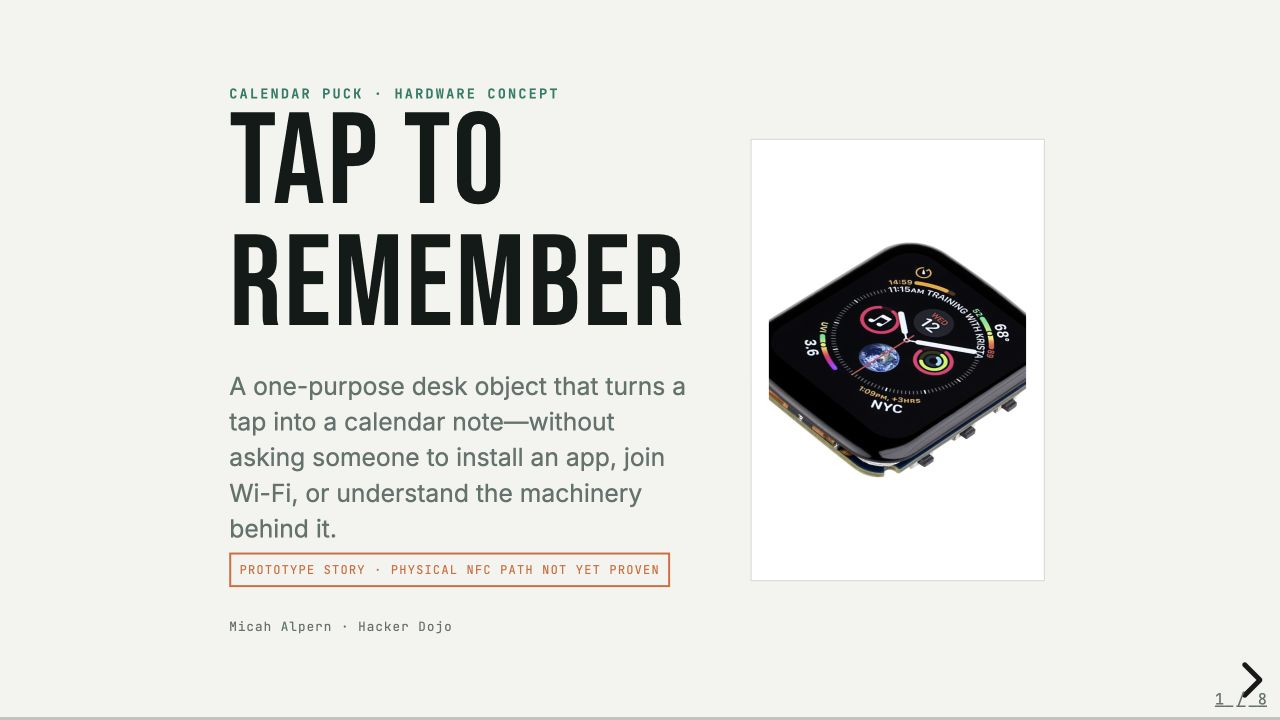
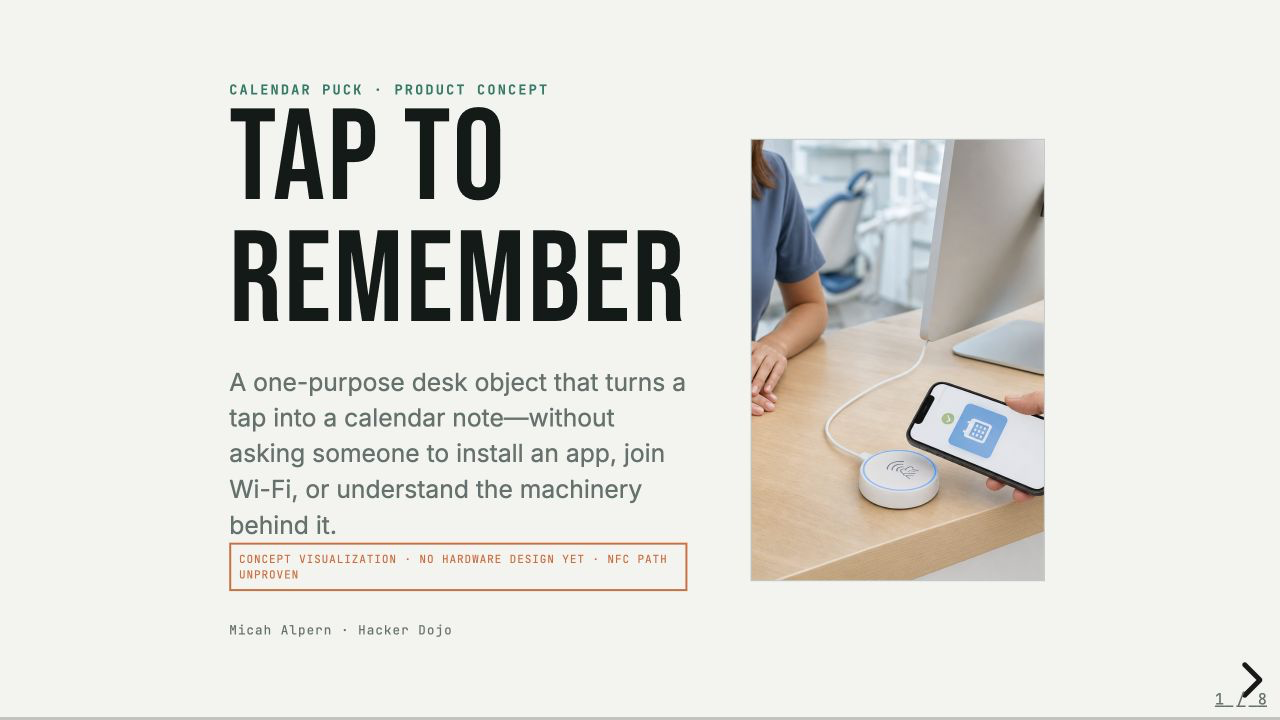
Replace Calendar Puck watch imagery

diff --git a/calendar-puck/deck.html b/calendar-puck/deck.html
@@ -6,12 +6,12 @@
   <link rel="preconnect" href="https://fonts.googleapis.com"><link rel="preconnect" href="https://fonts.gstatic.com" crossorigin>
   <link href="https://fonts.googleapis.com/css2?family=Bebas+Neue&family=Inter:wght@400;600;700;800&family=JetBrains+Mono:wght@400;700&display=swap" rel="stylesheet">
   <link rel="stylesheet" href="https://cdn.jsdelivr.net/npm/reveal.js@5.1.0/dist/reset.css"><link rel="stylesheet" href="https://cdn.jsdelivr.net/npm/reveal.js@5.1.0/dist/reveal.css"><link rel="stylesheet" href="../shared/deck.css">
-  <style>:root{--bg:#f2f4ef;--panel:#ffffff;--panel-2:#e7ece7;--fg:#111a18;--muted:#62716d;--accent:#0a7c66;--accent-2:#d96834;--rule:rgba(17,26,24,.18)}body,.reveal-viewport{background:var(--bg)!important}.device-photo{background:#fff}.device-photo img{object-fit:contain;padding:6%}.concept-note{border:2px solid var(--accent-2);color:var(--accent-2);font-family:'JetBrains Mono',monospace;font-size:.38em!important;letter-spacing:.1em;padding:.55em .7em;text-transform:uppercase;display:inline-block}</style>
+  <style>:root{--bg:#f2f4ef;--panel:#ffffff;--panel-2:#e7ece7;--fg:#111a18;--muted:#62716d;--accent:#0a7c66;--accent-2:#d96834;--rule:rgba(17,26,24,.18)}body,.reveal-viewport{background:var(--bg)!important}.concept-art{background:#dfe8e6}.concept-art img{object-fit:cover;object-position:52% center}.concept-note{border:2px solid var(--accent-2);color:var(--accent-2);font-family:'JetBrains Mono',monospace;font-size:.35em!important;letter-spacing:.08em;padding:.55em .7em;text-transform:uppercase;display:inline-block}.physical-ledger h2{font-size:2.2em;max-width:20ch;margin-bottom:.35em}.physical-ledger .evidence{min-height:0;padding:.85em}.physical-ledger .evidence h3{font-size:.88em}.physical-ledger .evidence p{font-size:.5em;line-height:1.35}</style>
 </head>
 <body><div class="reveal"><div class="slides">
   <section class="title-slide"><div class="title-grid">
-    <div class="title-copy"><p class="eyebrow">Calendar Puck · hardware concept</p><h1>Tap to Remember</h1><p class="dek">A one-purpose desk object that turns a tap into a calendar note—without asking someone to install an app, join Wi-Fi, or understand the machinery behind it.</p><p class="concept-note">Prototype story · physical NFC path not yet proven</p><p class="byline">Micah Alpern · Hacker Dojo</p></div>
-    <div class="hero-frame device-photo"><img src="assets/esp32-s3-touch-lcd-1.69-crop.jpg" alt="Official product image of the ESP32-S3 Touch LCD 1.69 development board"></div>
+    <div class="title-copy"><p class="eyebrow">Calendar Puck · product concept</p><h1>Tap to Remember</h1><p class="dek">A one-purpose desk object that turns a tap into a calendar note—without asking someone to install an app, join Wi-Fi, or understand the machinery behind it.</p><p class="concept-note">Concept visualization · no hardware design yet · NFC path unproven</p><p class="byline">Micah Alpern · Hacker Dojo</p></div>
+    <div class="hero-frame concept-art"><img src="assets/calendar-puck-dentist-office-concept.png" alt="Project concept illustration showing an iPhone tapping a small round USB puck on a dentist-office desk; no hardware has been built"></div>
   </div></section>
 
   <section class="statement"><p class="eyebrow">The job</p><h2>“Put this on my calendar” should not become a setup flow.</h2><p>The experience is for a shared room, not a personal gadget. The object should be legible, local, and calm enough that anyone can use it once.</p></section>
@@ -22,7 +22,7 @@
     <article class="evidence"><p class="kicker">No mystery</p><h3>Show the state</h3><p>The display must make ready, transfer, success, and failure unmistakable.</p></article>
   </div></section>
 
-  <section class="split"><div><p class="eyebrow">Selected hardware</p><h2>A screen, touch, NFC ambitions, and strict constraints.</h2><p>The development board provides a 1.69-inch touch display and ESP32-S3 platform. It is a real component—not evidence that the final offline handoff already works.</p><p class="caption"><a href="https://www.waveshare.com/esp32-s3-lcd-1.69.htm">Official Waveshare product page ↗</a></p></div><figure><div class="full-image device-photo"><img src="assets/esp32-s3-touch-lcd-1.69-crop.jpg" alt="ESP32-S3 touch display development board"></div><figcaption class="caption">Official Waveshare product image</figcaption></figure></section>
+  <section class="statement"><p class="eyebrow">What the picture means</p><h2>A use case—not an industrial design.</h2><p>The round puck, light ring, materials, scale, and placement are all conceptual. The image exists to make one interaction legible: a patient brings their own phone close to a small, USB-powered object on a shared desk.</p><p class="caption">Project concept image · form, components, and interaction details are not final</p></section>
 
   <section><p class="eyebrow">Architecture</p><h2>Thin puck. Capable host.</h2><div class="flow">
     <div class="step"><b>01 · puck</b><span>Captures intent and presents a short, visible interaction.</span><small>Hardware owns immediacy—not account credentials.</small></div>
@@ -30,7 +30,11 @@
     <div class="step"><b>03 · Mac host</b><span>Uses the already-authenticated calendar environment and returns a result.</span><small>Complexity lives where updateability and credentials already exist.</small></div>
   </div></section>
 
-  <section class="split reverse"><figure><div class="full-image device-photo"><img src="assets/esp32-s3-touch-lcd-1.69-crop.jpg" alt="The selected ESP32-S3 touch display development board"></div><figcaption class="caption">Selected component · the final enclosure does not exist yet</figcaption></figure><div><p class="eyebrow">Physical truth</p><h2>The form is still a hypothesis.</h2><p>The selected board is real. The round desk object is not. Industrial design should follow proof of the radio path, tap semantics, phone behavior, and failure recovery on physical devices.</p></div></section>
+  <section class="physical-ledger"><p class="eyebrow">Physical truth</p><h2>The form is still a hypothesis.</h2><div class="evidence-grid">
+    <article class="evidence"><p class="kicker">What exists</p><h3>A software and protocol prototype</h3><p>The Mac service, mock transport, firmware path, and decision records make the system testable before hardware arrives.</p></article>
+    <article class="evidence"><p class="kicker">What does not</p><h3>A designed puck</h3><p>No enclosure, display, light behavior, materials, size, or manufacturing direction has been chosen.</p></article>
+    <article class="evidence"><p class="kicker">What proves it</p><h3>Real devices doing the handoff</h3><p>USB, NFC, iPhone behavior, state feedback, and failure recovery must work together on a physical bench.</p></article>
+  </div></section>
 
   <section><p class="eyebrow">Evidence ledger</p><h2>Do not let a beautiful render outrun the prototype.</h2><table class="truth-table"><thead><tr><th>Claim</th><th>Status</th><th>Next evidence</th></tr></thead><tbody>
     <tr><td>Local Mac can own calendar credentials</td><td class="yes">Architecture established</td><td>End-to-end host demo</td></tr>

diff --git a/AUDIT.md b/AUDIT.md
@@ -65,13 +65,15 @@ lifestyle scene is used. Meeting Memory and YARM screenshots use deterministic s
 
 ## 24 · Calendar Puck
 
-- **Creative audit:** An existing concept render read like generic lifestyle stock and could be
-  mistaken for physical progress.
+- **Creative audit:** The watch-face development-board photo made the project look like it used an
+  Apple Watch and implied a hardware direction that does not exist. The original dentist-office
+  concept image communicates the intended tap moment much more clearly.
 - **Content audit:** The final deck calls the app-free offline handoff a hypothesis, identifies the LAN
-  path as diagnostic, and makes physical NFC/phone testing the next evidence gate.
-- **Iteration:** Removed the lifestyle render entirely. The deck now uses only the selected board’s
-  official product image, cropped for the presentation slot, and states that the enclosure does not
-  exist yet.
+  path as diagnostic, makes physical NFC/phone testing the next evidence gate, and now distinguishes
+  the software/protocol prototype from nonexistent industrial design.
+- **Iteration:** Removed every watch-like hardware image. Restored the project’s own concept image as
+  the hero, labeled it as a visualization, and added an explicit inventory of what exists, what does
+  not, and what physical evidence comes next.
 
 ## 23 · Meeting Memory
 
